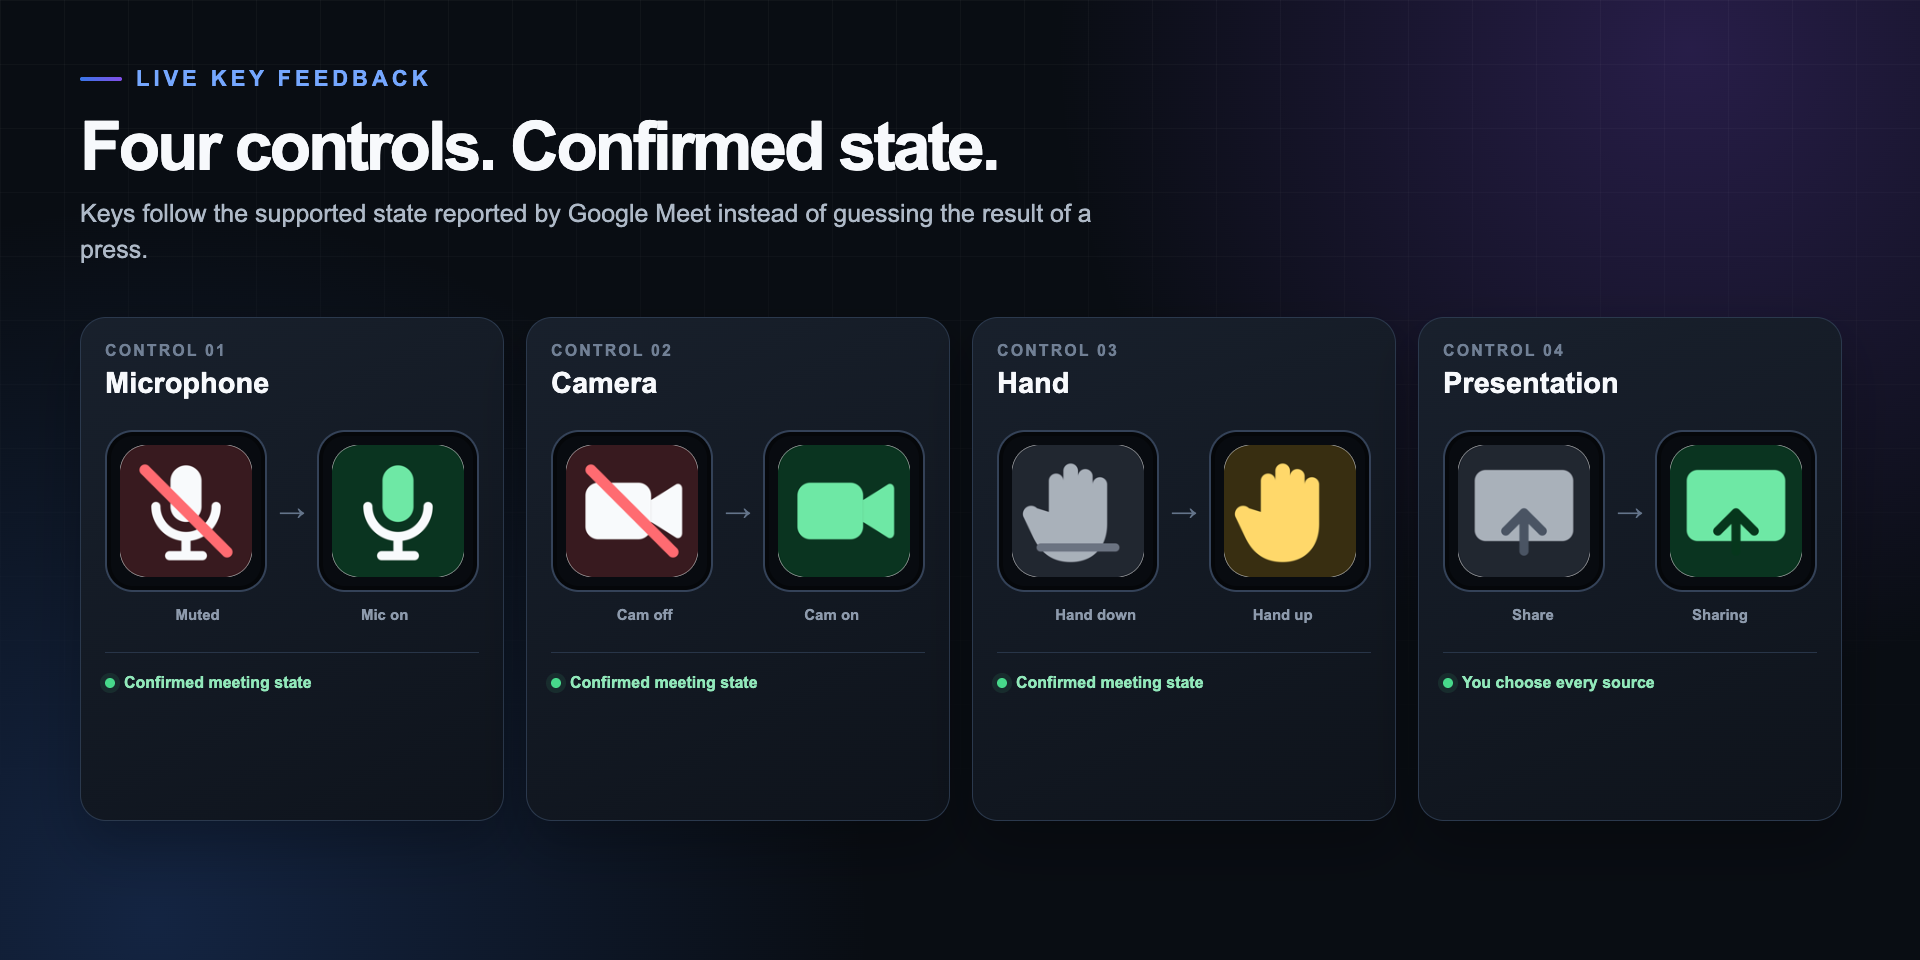
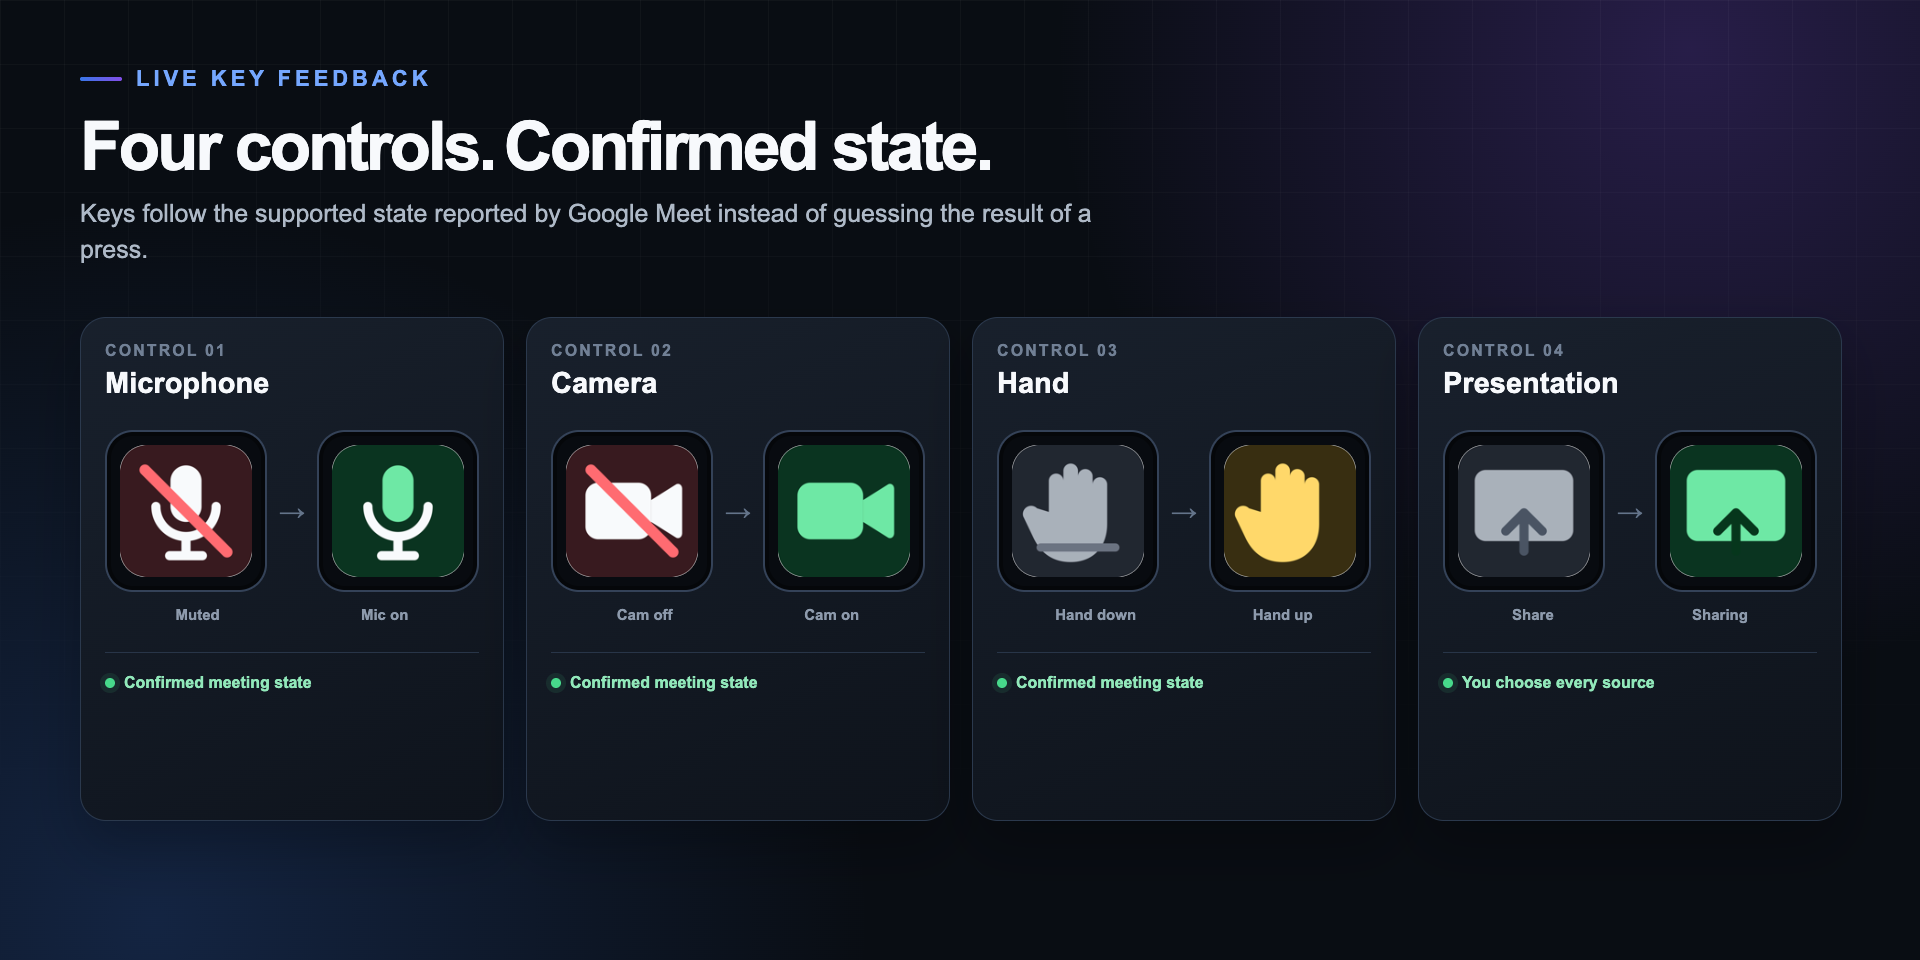
fix: align integrated store release metadata

Changed region(s): [[0.25, 0.125, 0.5312, 0.1875]]

diff --git a/apps/streamdeck-plugin/tests/compatibility-docs.test.ts b/apps/streamdeck-plugin/tests/compatibility-docs.test.ts
@@ -10,24 +10,63 @@ async function readRepositoryFile(path: string): Promise<string> {
 
 describe("documented Stream Deck host compatibility", () => {
   it("keeps the public macOS requirement aligned with the plugin manifest", async () => {
-    const [manifestText, readme, englishSetup, germanSetup] = await Promise.all([
+    const [
+      manifestText,
+      readme,
+      englishSetup,
+      germanSetup,
+      marketplaceReadme,
+      marketplaceListingText,
+      chromeListingText
+    ] = await Promise.all([
       readRepositoryFile("apps/streamdeck-plugin/dev.annonator.meet-deck.sdPlugin/manifest.json"),
       readRepositoryFile("README.md"),
       readRepositoryFile("docs/en/setup.md"),
-      readRepositoryFile("docs/de/setup.md")
+      readRepositoryFile("docs/de/setup.md"),
+      readRepositoryFile("marketplace/README.md"),
+      readRepositoryFile("marketplace/listing.json"),
+      readRepositoryFile("apps/chrome-extension/store/listing.json")
     ]);
     const manifest = JSON.parse(manifestText) as {
       OS: Array<{ Platform: string; MinimumVersion: string }>;
     };
     const macOS = manifest.OS.find(({ Platform }) => Platform === "mac");
+    const marketplaceListing = JSON.parse(marketplaceListingText) as {
+      product: { requirements: { macOSMinimum: string } };
+    };
 
     expect(macOS?.MinimumVersion).toBe("13");
     expect(readme).toContain("requires macOS 13+");
     expect(englishSetup).toContain("macOS 13 or newer");
     expect(germanSetup).toContain("macOS 13 oder neuer");
+    expect(marketplaceListing.product.requirements.macOSMinimum).toBe("13");
 
-    for (const document of [readme, englishSetup, germanSetup]) {
+    for (const document of [
+      readme,
+      englishSetup,
+      germanSetup,
+      marketplaceReadme,
+      marketplaceListingText,
+      chromeListingText
+    ]) {
       expect(document).not.toMatch(/macOS 12(?:\+| or newer| oder neuer)/u);
     }
+  });
+
+  it("keeps store-facing companion and permission terminology current", async () => {
+    const [marketplaceReadme, marketplaceListingText, demoVideo] = await Promise.all([
+      readRepositoryFile("marketplace/README.md"),
+      readRepositoryFile("marketplace/listing.json"),
+      readRepositoryFile("marketplace/demo-video.md")
+    ]);
+    const marketplaceListing = JSON.parse(marketplaceListingText) as {
+      product: { interfaceLanguages: { chromeCompanion: string[] } };
+    };
+    const storeCopy = [marketplaceReadme, marketplaceListingText, demoVideo].join("\n");
+
+    expect(marketplaceListing.product.interfaceLanguages.chromeCompanion).toEqual(["en", "de"]);
+    expect(storeCopy).not.toMatch(/Chrome Local Network Access|Sicher verbinden|German companion/u);
+    expect(storeCopy).toContain("Pair and connect");
+    expect(storeCopy).toContain("ws://127.0.0.1:<configured port>/*");
   });
 });

diff --git a/marketplace/assets/source/artboards.html b/marketplace/assets/source/artboards.html
@@ -367,6 +367,10 @@
         letter-spacing: -0.045em;
       }
 
+      .gallery-heading h1 .sentence-gap {
+        margin-left: 0.14em;
+      }
+
       .gallery-heading p {
         max-width: 1060px;
         margin-top: 15px;
@@ -904,7 +908,7 @@
     <main class="artboard asset-gallery-01-controls marketplace-background gallery-shell">
       <header class="gallery-heading">
         <span class="eyebrow">Live key feedback</span>
-        <h1>Four controls. Confirmed state.</h1>
+        <h1>Four controls.<span class="sentence-gap">Confirmed state.</span></h1>
         <p>
           Keys follow the supported state reported by Google Meet instead of guessing the result of
           a press.
@@ -1051,7 +1055,7 @@
     <main class="artboard asset-gallery-03-privacy marketplace-background gallery-shell">
       <header class="gallery-heading">
         <span class="eyebrow">Privacy by design</span>
-        <h1>Your meeting stays in the browser.</h1>
+        <h1>No meeting media leaves the browser.</h1>
         <p>
           Meet Deck sends finite control state and commands across an authenticated loopback bridge.
         </p>

diff --git a/apps/chrome-extension/public/onboarding.html b/apps/chrome-extension/public/onboarding.html
@@ -10,7 +10,7 @@
     <main>
       <header>
         <span class="eyebrow" data-i18n="onboarding_eyebrow">Meet Deck · annonator</span>
-        <h1 data-i18n="onboarding_heading">Your meeting stays in your browser.</h1>
+        <h1 data-i18n="onboarding_heading">Your meeting media stays in your browser.</h1>
         <p class="lead" data-i18n="onboarding_lead">
           Meet Deck connects Google Meet and Stream Deck only over IPv4 loopback. No cloud, no
           telemetry, and no meeting media or communications.

diff --git a/marketplace/demo-video.md b/marketplace/demo-video.md
@@ -24,8 +24,8 @@ Meet behavior.
    the matching companion extension in **Google Chrome**, not Microsoft Edge.
 2. Use Stream Deck 7.1 or newer and a physical Stream Deck with LCD keys. Stream Deck + footage must
    show keys only; Meet Deck v0.1.0 does not support its dials or touch strip.
-3. Pair before recording. Keep the pairing code and the German companion popup/onboarding out of
-   frame. The Stream Deck property inspector and key labels are English.
+3. Pair before recording. Keep the pairing code and companion popup/onboarding out of frame. The
+   Stream Deck property inspector and key labels are English.
 4. Use an English-language Chrome profile and a dedicated Google Meet with synthetic identities and
    content. Use a neutral camera backdrop and a synthetic presentation window.
 5. Hide the Meet URL/code, participant names and avatars, account identity, calendar titles,

diff --git a/apps/chrome-extension/store/SUBMISSION.md b/apps/chrome-extension/store/SUBMISSION.md
@@ -19,8 +19,8 @@ paths are in [`listing.json`](listing.json).
 
 Upload `assets/small-promo-440x280.png`, all three ordered screenshots in `assets/`, and use the
 128×128 PNG already packaged as `icons/icon-128.png`. The promo is brand-led because promotional
-images are global rather than locale-specific. The screenshots use square, full-bleed 1280×800
-canvases and current built UI.
+images are global rather than locale-specific. The screenshots use full-bleed 1280×800 canvases and
+current built UI.
 
 ## Privacy practices
 
